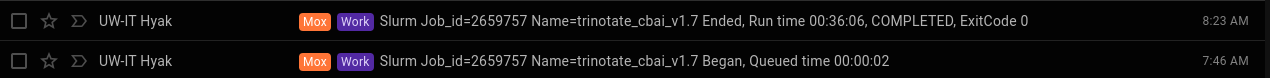
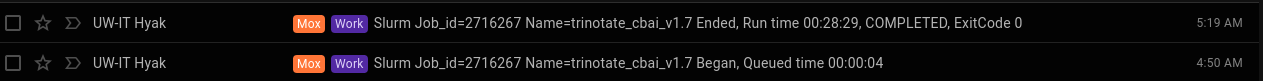
add updated runtime from rerun with fixed fastqs

diff --git a/_posts/2020/2020-05-29-Transcriptome-Annotation---Trinotate-C.bairdi-Transcriptome-v1.7-on-Mox.md b/_posts/2020/2020-05-29-Transcriptome-Annotation---Trinotate-C.bairdi-Transcriptome-v1.7-on-Mox.md
@@ -203,7 +203,7 @@ report \
 
 #### RESULTS
 
-Pretty quick, ~36 mins:
+Pretty quick, ~28 mins:
 
 ![cbai v1.7 trinotate runtime](https://github.com/RobertsLab/sams-notebook/blob/master/images/screencaps/20200529_cbai_trinotate_transcriptome-v1.7_runtime.png?raw=true)
 
